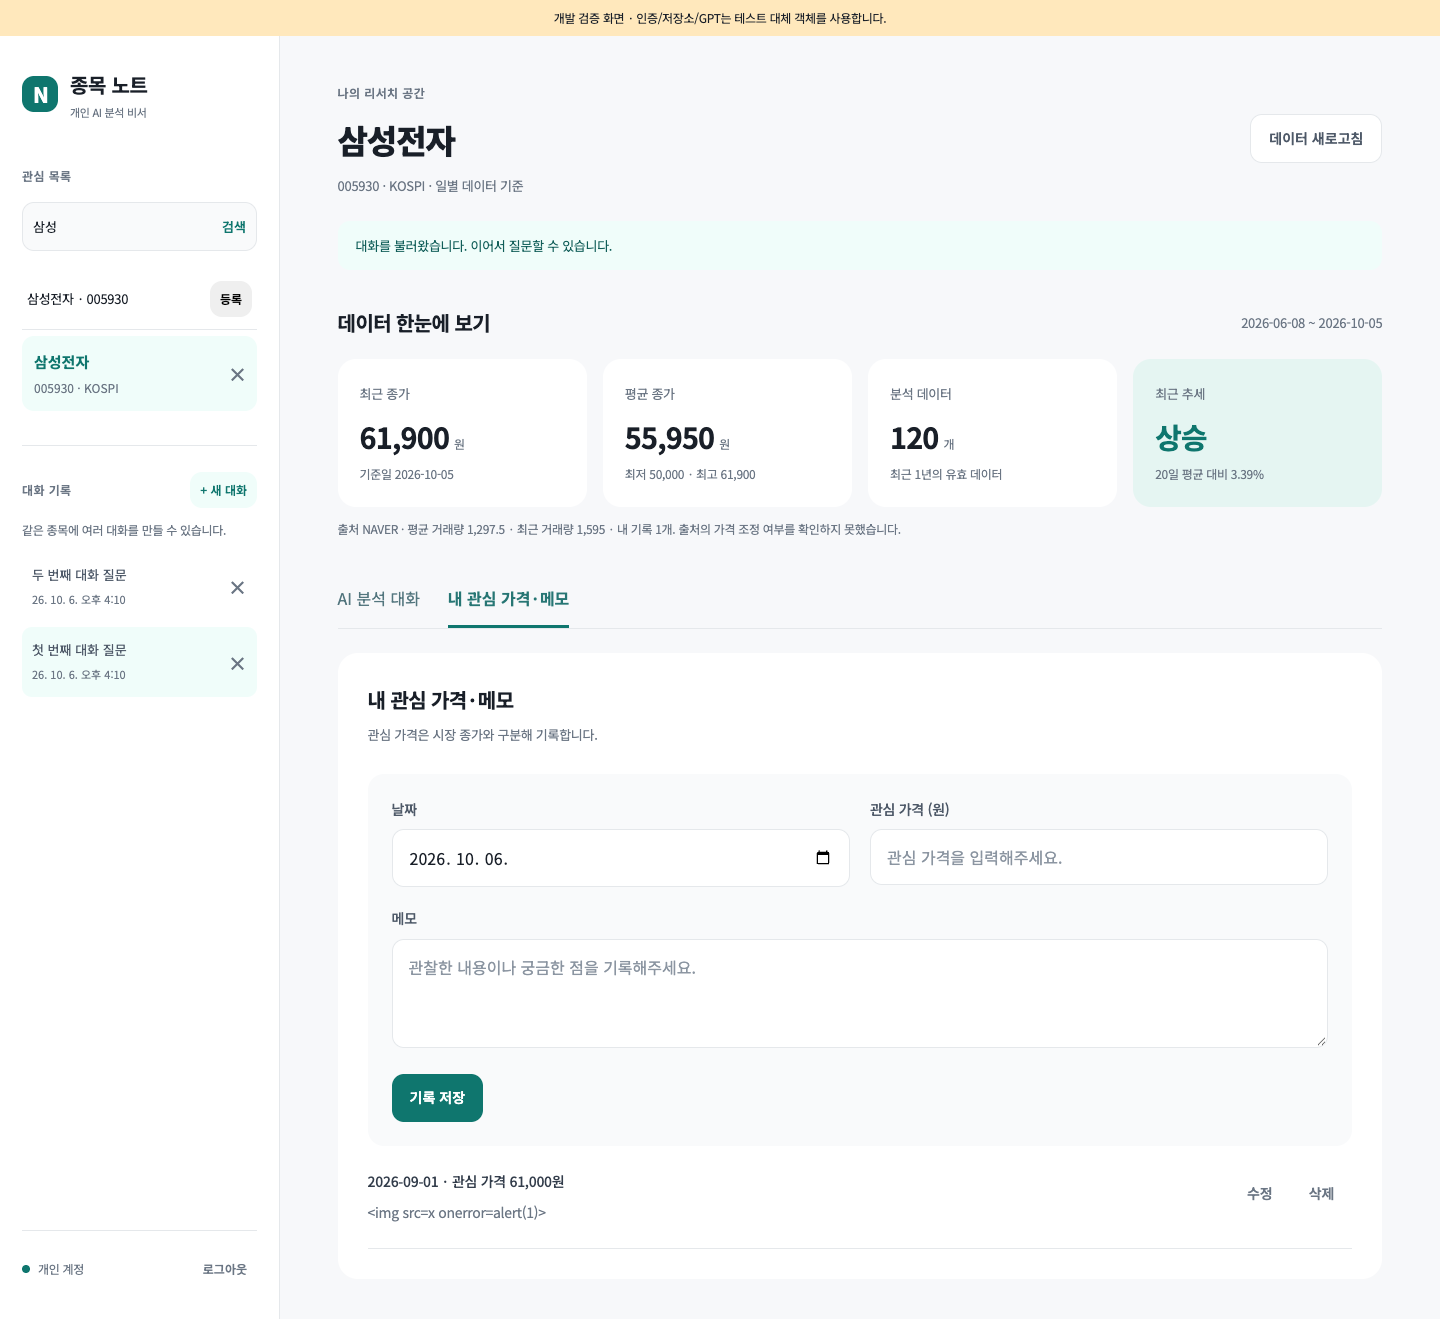
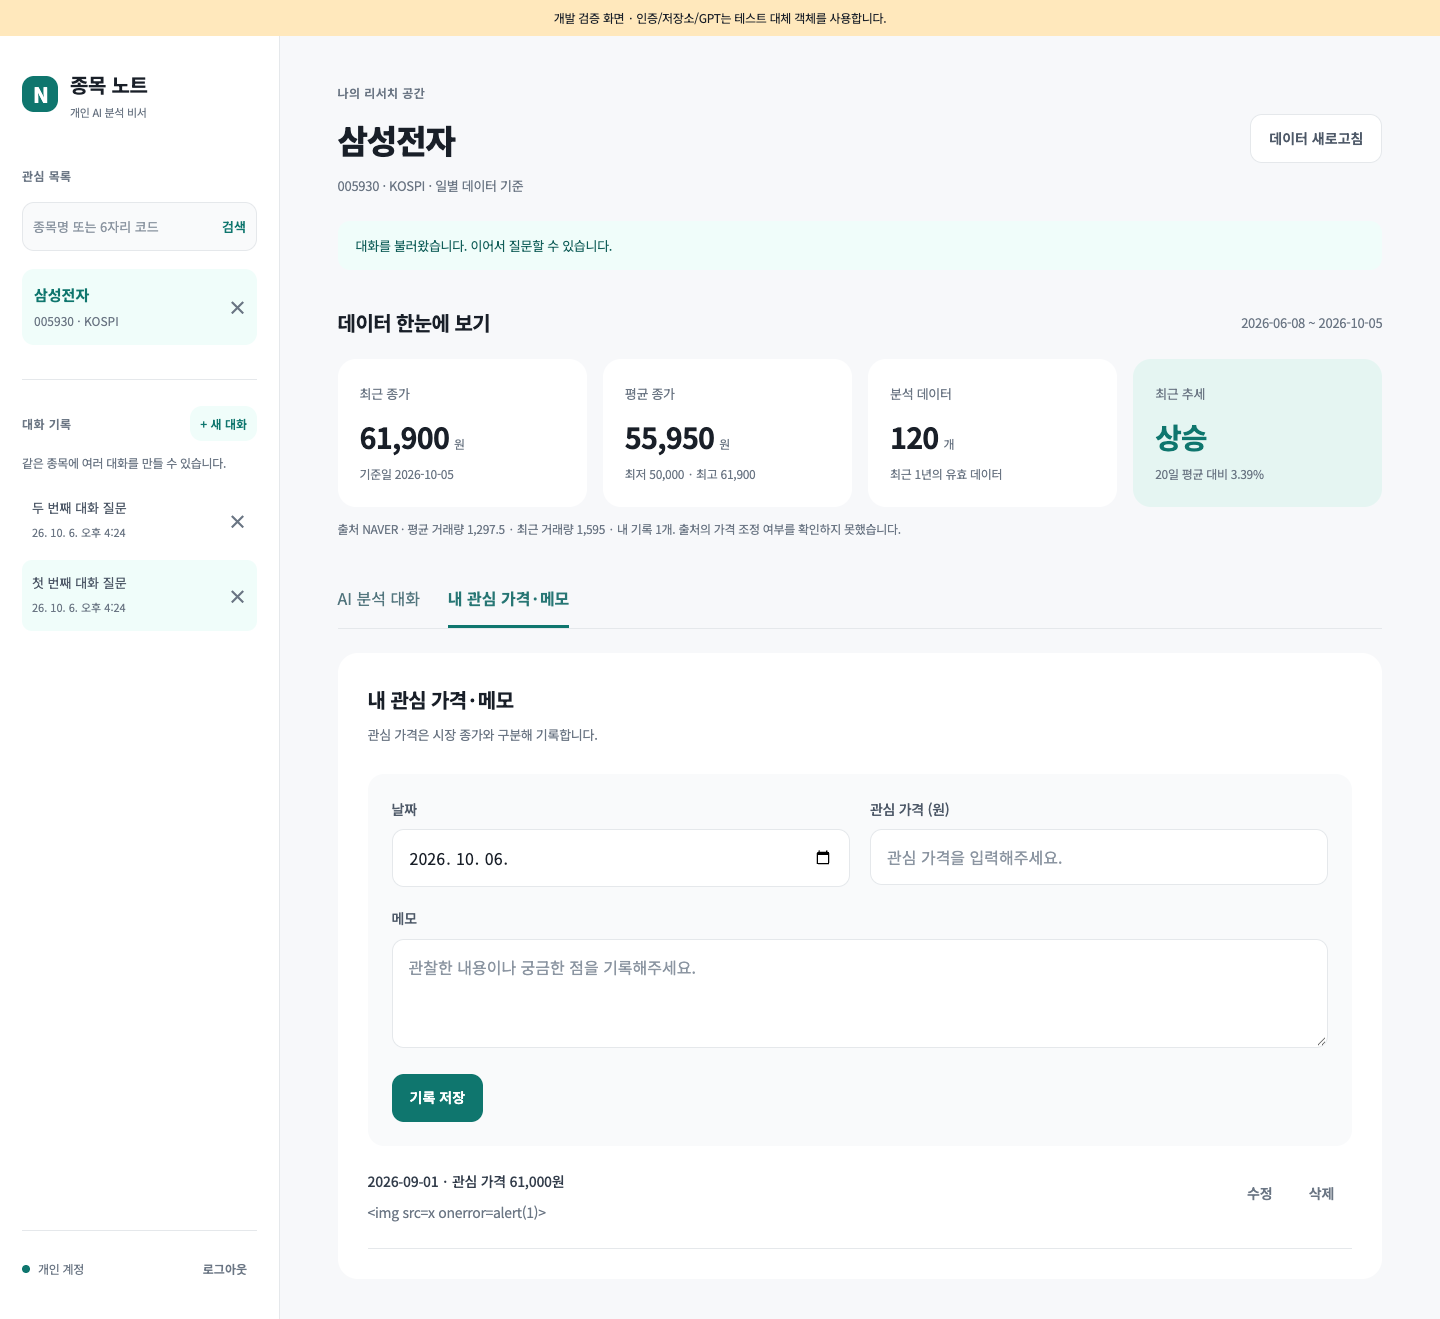
fix: hide stock search results when query is cleared

diff --git a/frontend/js/search-runner.js b/frontend/js/search-runner.js
@@ -2,11 +2,11 @@ export function createSearchRunner({request,apply,status,error,delay=300,setTime
  let generation=0,timer=null,controller=null;
  function cancel(){generation++;clearTimer(timer);timer=null;controller?.abort();controller=null;status(false);}
  async function run(query,more=false){
-  cancel();const current=generation;controller=new AbortController();status(true);
+  cancel();if(!query.trim())return;const current=generation;controller=new AbortController();status(true);
   try{const result=await request(query,more,controller.signal);if(current===generation)apply(result,more);}
   catch(reason){if(current===generation)error(reason);}
   finally{if(current===generation){controller=null;status(false);}}
  }
- function schedule(query){cancel();timer=setTimer(()=>{timer=null;void run(query);},delay);}
+ function schedule(query){cancel();if(!query.trim())return;timer=setTimer(()=>{timer=null;void run(query);},delay);}
  return {run,schedule,cancel};
 }
